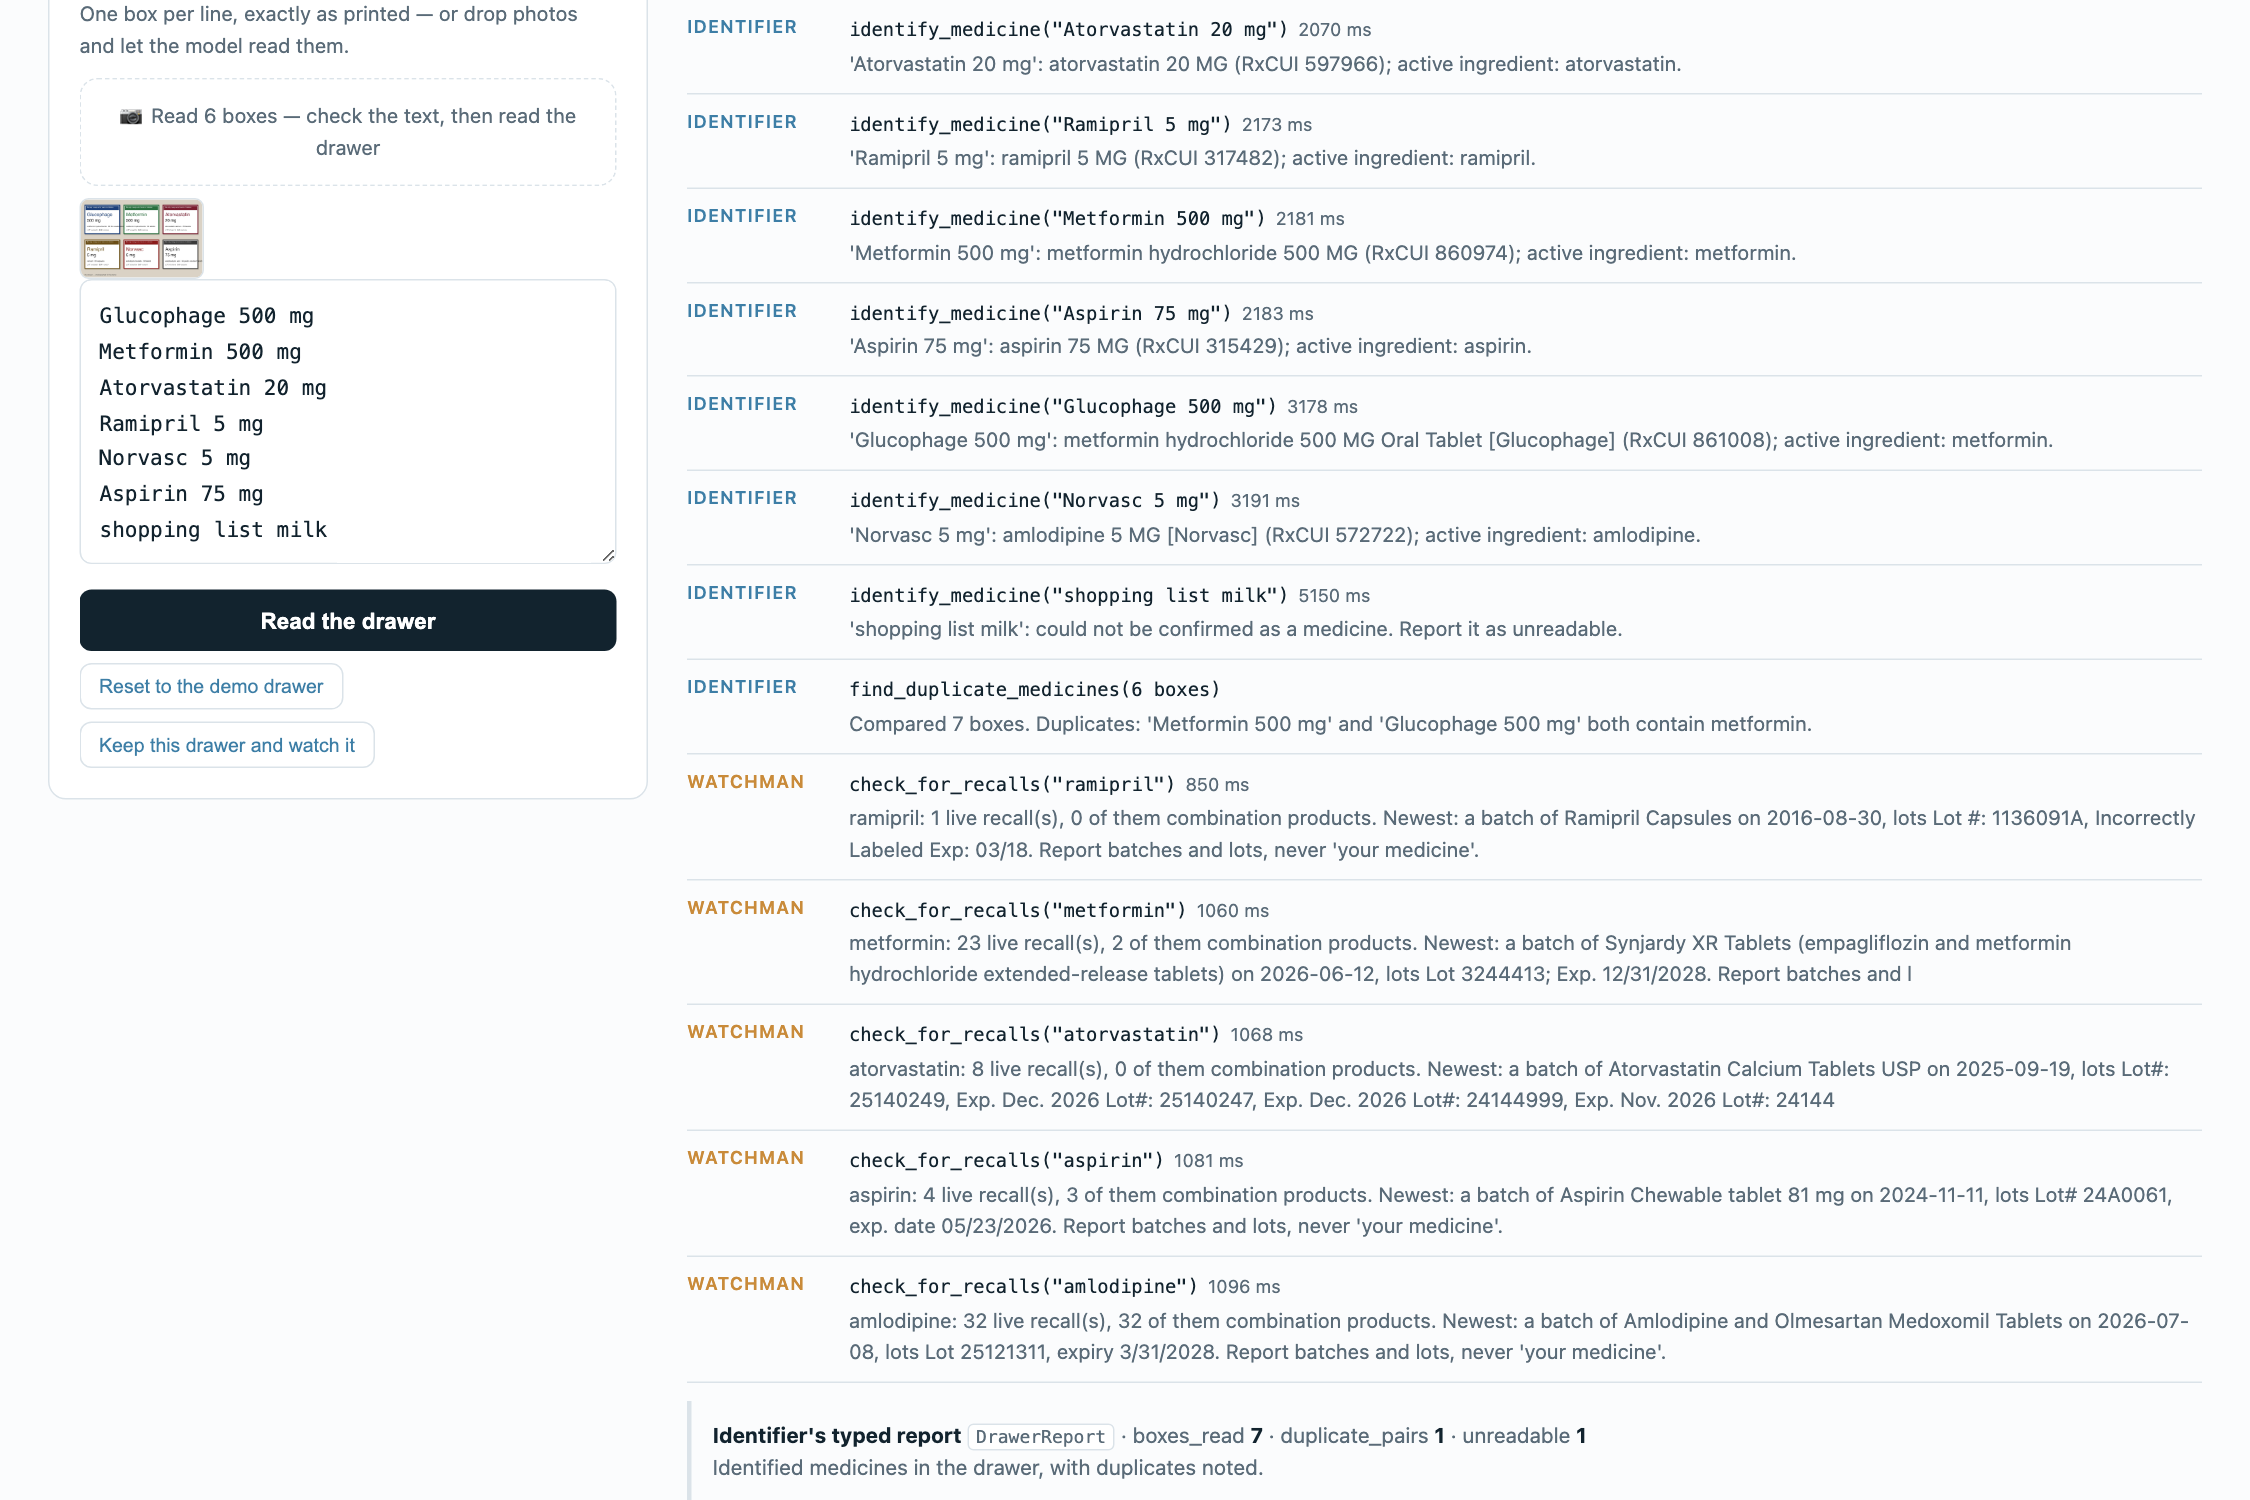
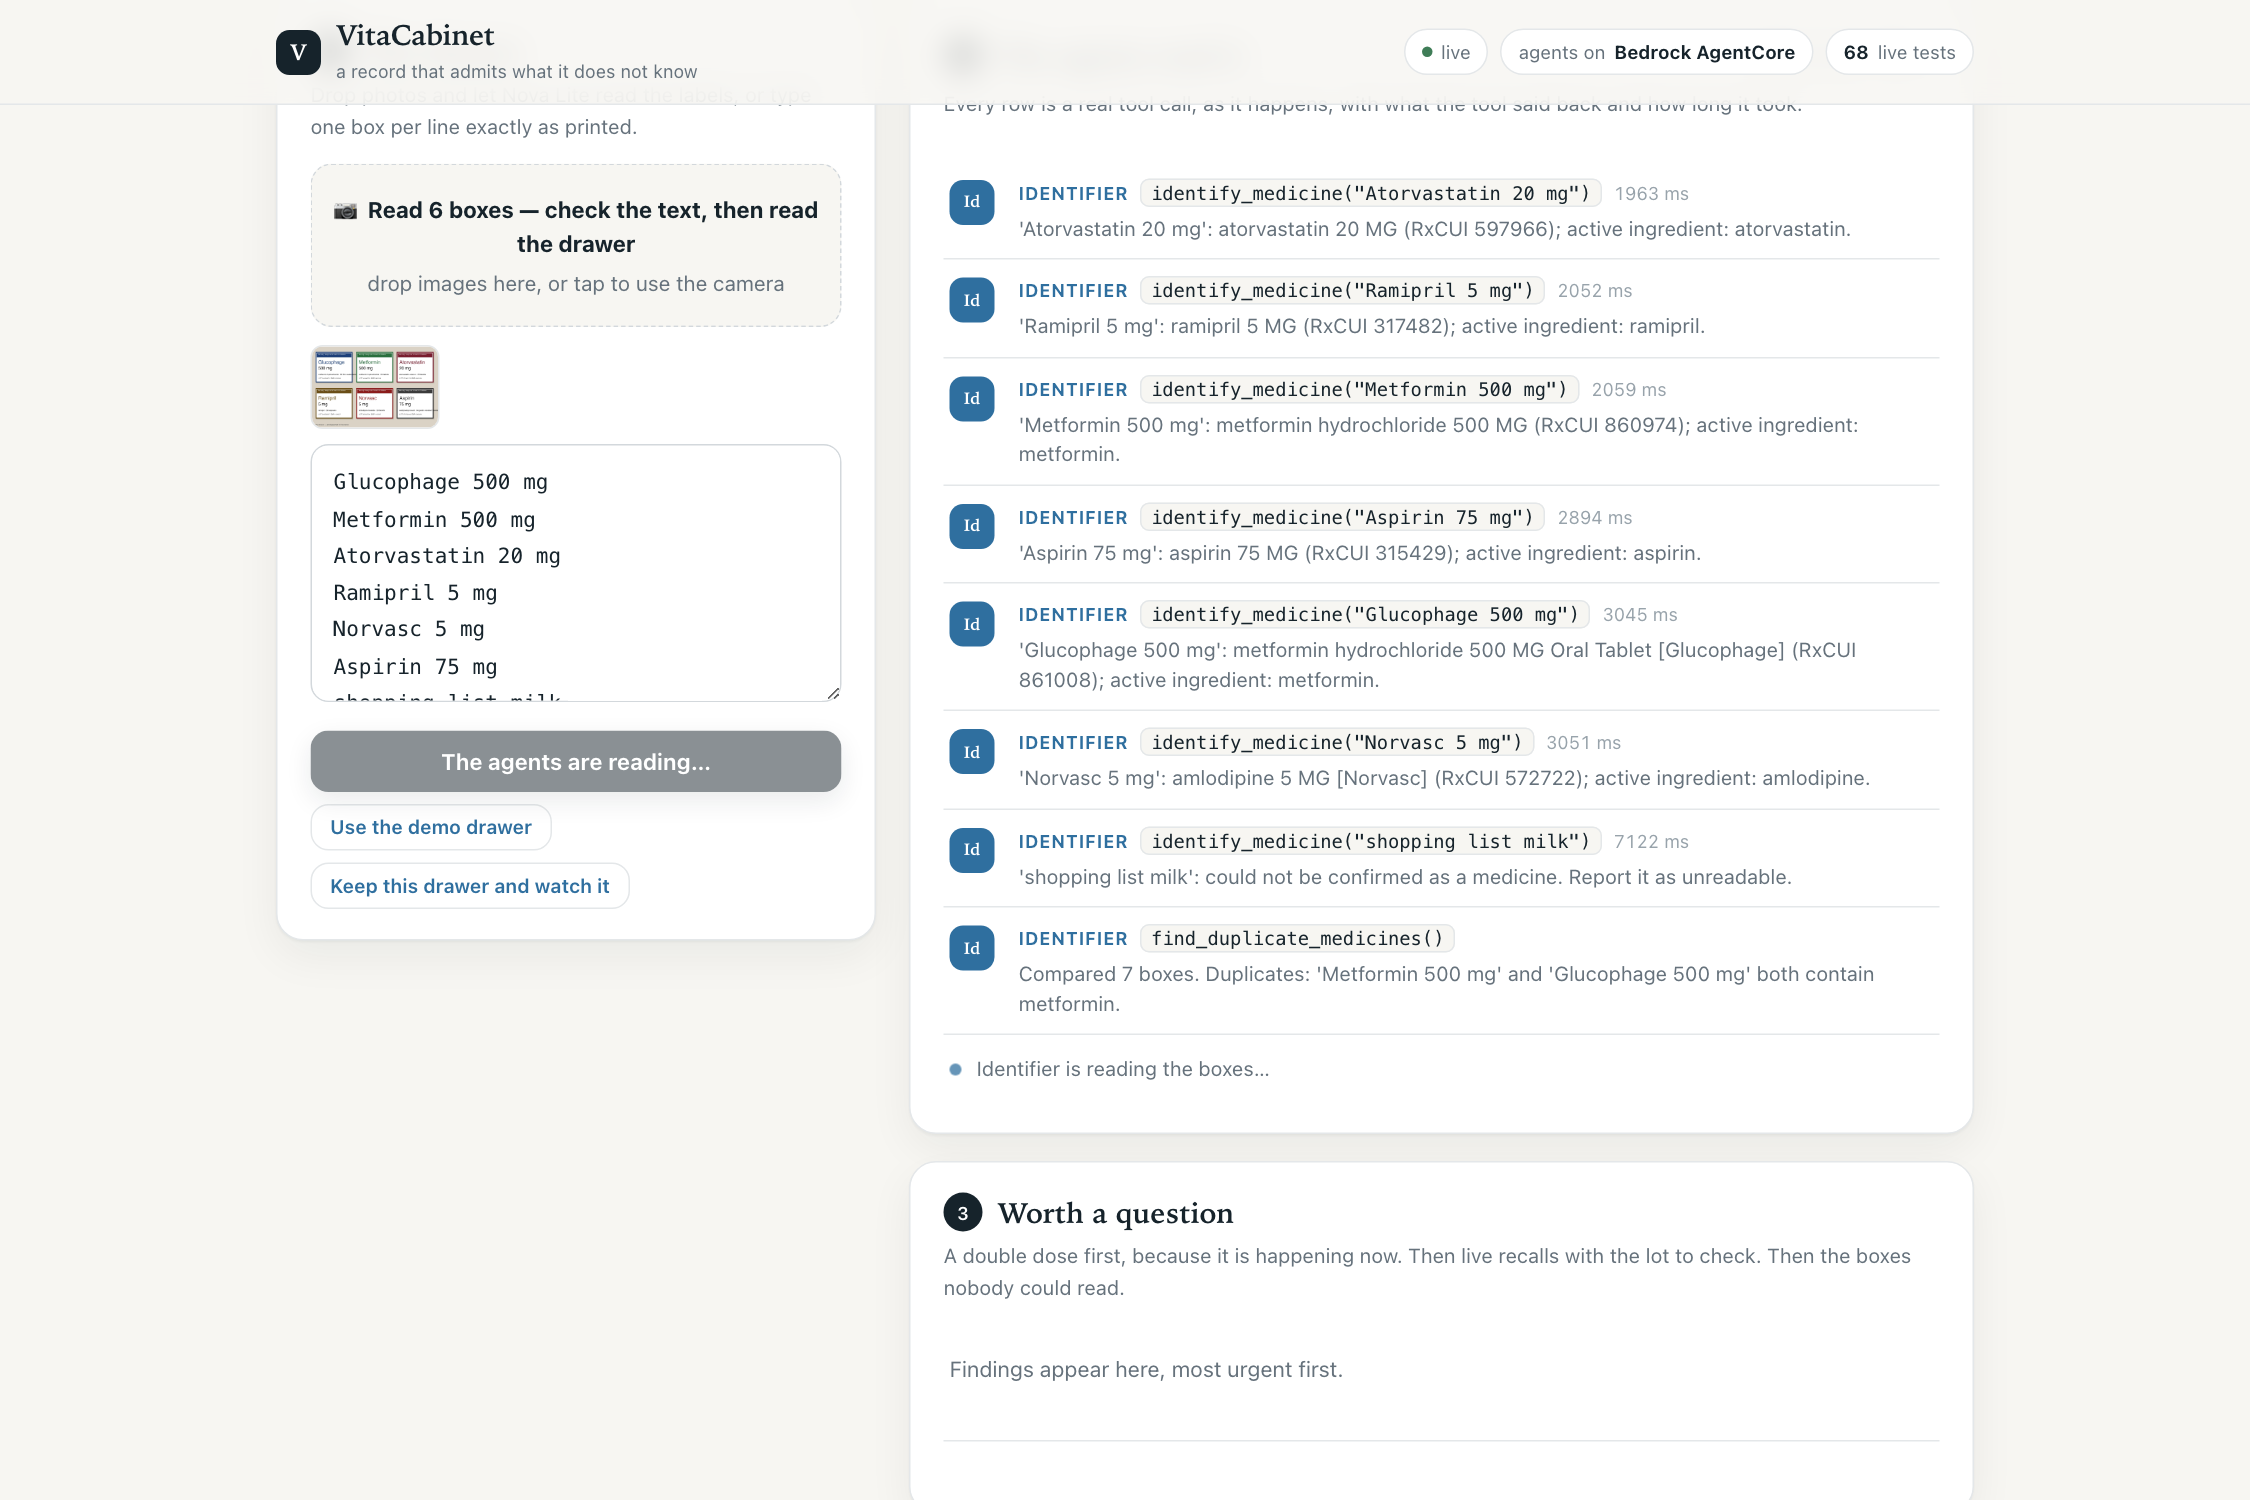
design: unreadable lines never enter the cabinet; sticky drawer column; cleaner agent prose
Seen on the live page: 'shopping list milk' saved as a fact at full
confidence. A line the Identifier could not confirm is not a fact about
anybody's medicines. The judges' pre-visited drawer now carries real ages so
the decay is visible rather than described.

diff --git a/web/index.html b/web/index.html
@@ -69,7 +69,8 @@
 
   /* ── layout ────────────────────────────────────────────── */
   main{display:grid;grid-template-columns:400px minmax(0,1fr);gap:22px;padding-bottom:60px;align-items:start}
-  @media (max-width:960px){main{grid-template-columns:1fr}}
+  main>div:first-child{position:sticky;top:74px;max-height:calc(100vh - 90px);overflow:auto;scrollbar-width:thin;padding-right:2px}
+  @media (max-width:960px){main{grid-template-columns:1fr} main>div:first-child{position:static;max-height:none;overflow:visible}}
   .panel{background:var(--card);border:1px solid var(--line);border-radius:18px;padding:20px 22px;margin-bottom:18px;box-shadow:var(--shadow)}
   .panel h2{margin:0;font:600 19px var(--serif);display:flex;align-items:center;gap:10px}
   .panel h2 .n{width:26px;height:26px;border-radius:50%;background:var(--ink);color:#fff;display:grid;place-items:center;font:600 12px var(--sans)}
@@ -340,7 +341,7 @@ function drawSaid(said, report) {
   if (report && !report.error)
     $('trace').insertAdjacentHTML('beforeend', `<div class="summary"><b class="Identifier">Identifier's typed report</b> <code>DrawerReport</code> · boxes_read <b>${report.boxes_read}</b> · duplicate_pairs <b>${(report.duplicate_pairs||[]).length}</b> · unreadable <b>${(report.unreadable||[]).length}</b><br>${esc(report.one_line || '')}</div>`);
   for (const [who, text] of Object.entries(said || {})) if (text && !(who === 'Identifier' && report && !report.error))
-    $('trace').insertAdjacentHTML('beforeend', `<div class="summary"><b class="${esc(who)}">${esc(who)} reports:</b> ${esc(text.slice(0, 420))}</div>`);
+    $('trace').insertAdjacentHTML('beforeend', `<div class="summary"><b class="${esc(who)}">${esc(who)} reports:</b> ${esc(text.replace(/\*\*/g, '').replace(/\s*[-•]\s+/g, ' · ').replace(/\s+/g, ' ').slice(0, 360))}${text.length > 360 ? '…' : ''}</div>`);
 }
 
 function render(data) {
@@ -379,7 +380,10 @@ async function writeQuestion(finding, i, btn) {
 
 /* ── the cabinet: a drawer that persists and ages ───────── */
 async function saveDrawer() {
-  const boxes = lines(); if (!boxes.length) return;
+  // A line the Identifier could not confirm as a medicine is not a fact about
+  // anybody's medicines. It stays in the drawer text; it does not enter the record.
+  const bad = new Set(lastScan?.unreadable || []);
+  const boxes = lines().filter(b => !bad.has(b)); if (!boxes.length) return;
   drawer = await post('/drawers', { boxes, owner: 'Mum' });
   showCabinet(drawer); history.replaceState(null, '', '?drawer=' + drawer.id);
   $('cabinet').scrollIntoView({behavior:'smooth', block:'start'});
